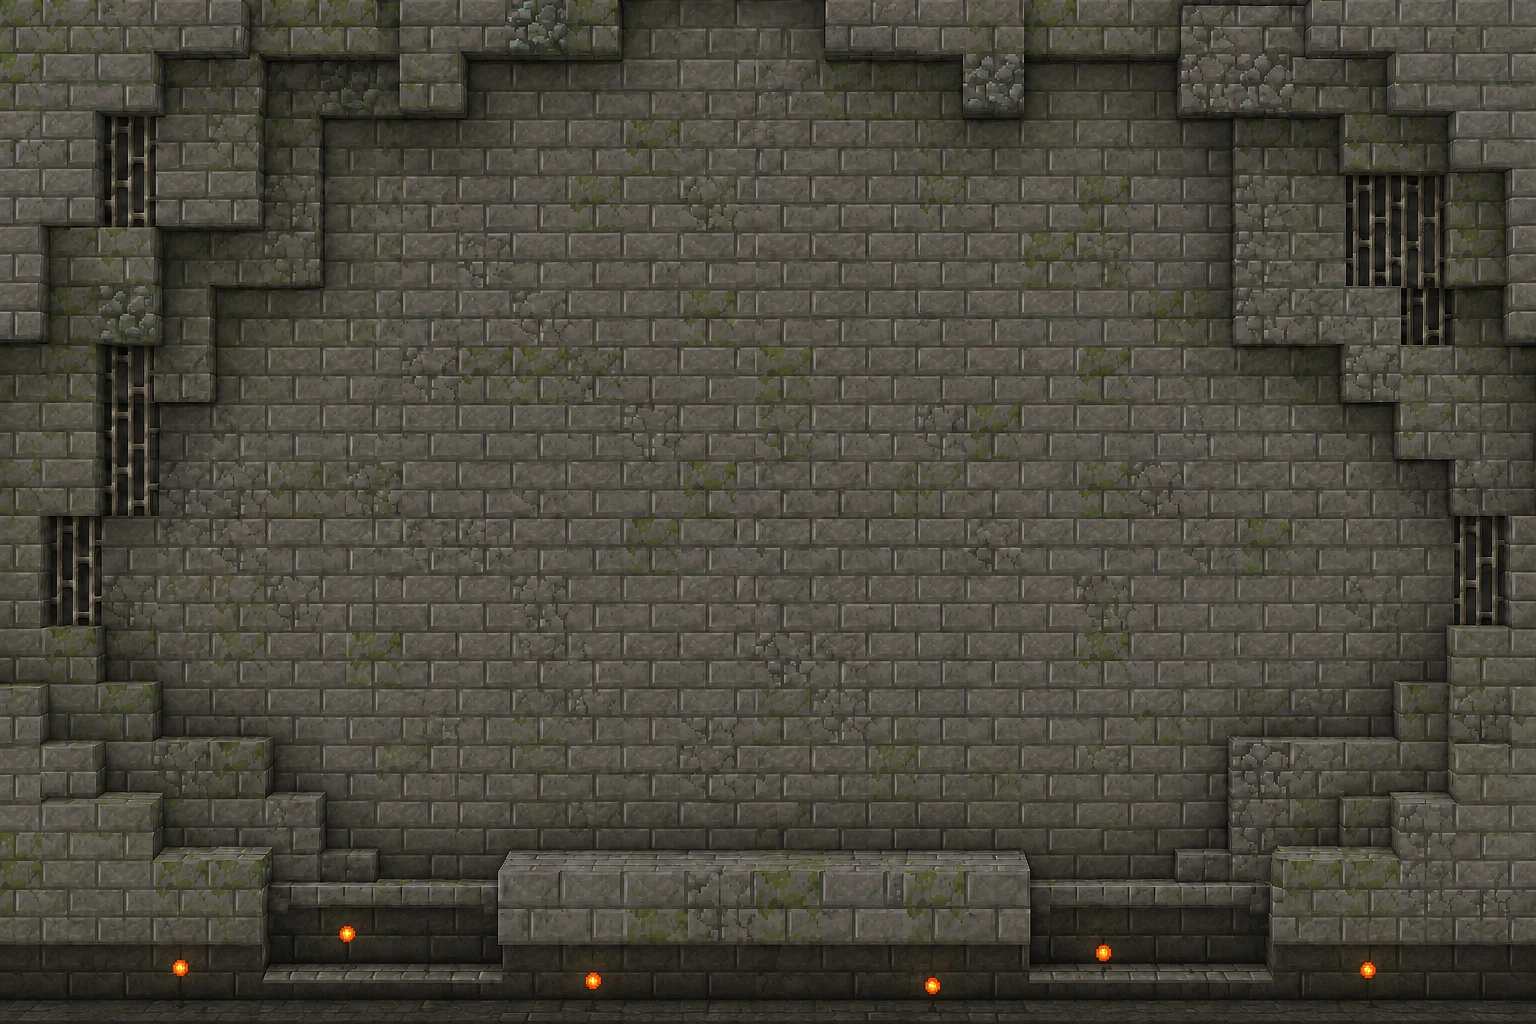
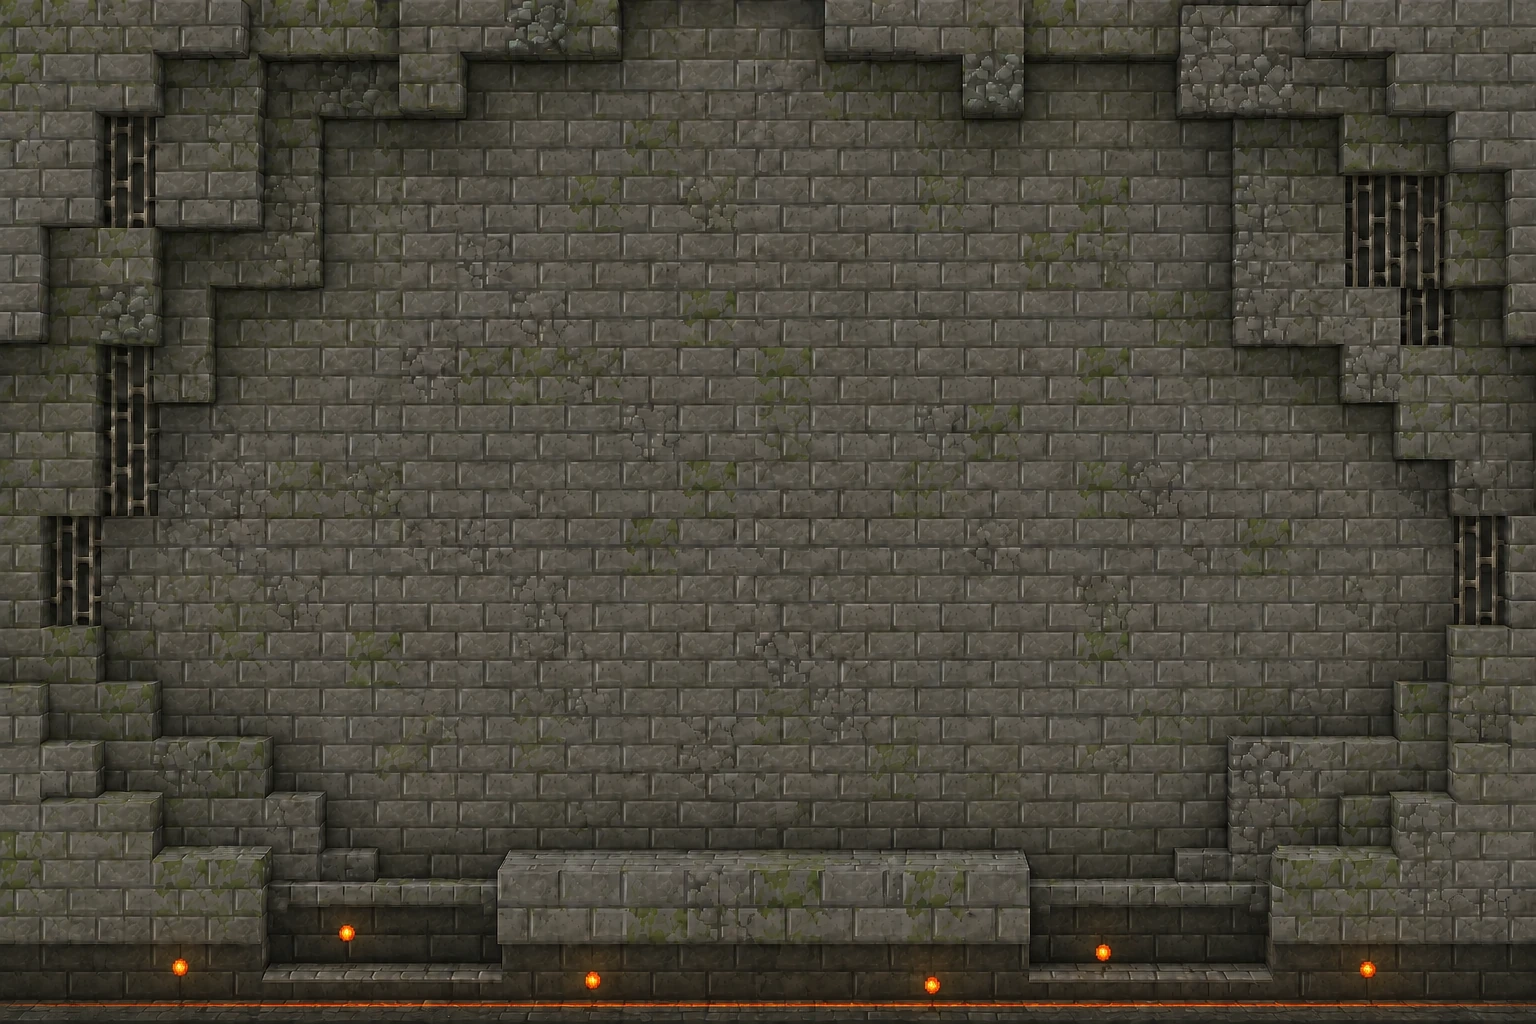
Add a shallow lava sliver at the stronghold edge

Changed region(s): [[0.0312, 0.9375, 1.0, 1.0], [0.875, 0.1875, 0.9375, 0.3438]]

diff --git a/public/images/minecraft/relief/stronghold-prompts.md b/public/images/minecraft/relief/stronghold-prompts.md
@@ -1,5 +1,9 @@
 # Stronghold application artwork
 
+## Latest revision: shallow lava sliver
+
+Precise object edit of supplied stronghold background. Preserve architecture, textures, moss, cracks, iron bars, shallow depth, center space, and small floating orange bubbles. Make one tiny addition ONLY at bottom: a narrow lava channel whose TOP SURFACE is barely visible at a very low grazing angle, like the thin rail bed in a nearly-front-facing Minecraft side-scroller. At image height1024, lava's visible surface should be only8-14 pixels tall, a very long slim horizontal foreshortened orange pixel-textured ribbon close to bottom edge. A thin grey stone lip immediately in FRONT occludes ALL vertical/side lava faces; you can only glimpse the top of the liquid behind that lip. Subtle shallow angled short end caps on stone lip, not a front-on orange rectangle. Place this in the bottommost floor strip, under the stone platform; don't replace any wall or platform with lava. Leave bottommost8-12 pixels as stone foreground lip. Faint red-orange reflection restricted to adjacent lower stone edge. No broad orange band, no lava waterfall, no tall orange face, no large pool, no glowing wall. No other changes. Same1536x1024, no text, no portal baked in.
+
 Current asset: `07-stronghold.webp`. Built-in image generation, encoded as WebP without resizing. Displayed at brightness(1.16), per user request. The End portal remains a separate clickable component. Rejected lava-panel variants were not published.
 
 ## Base prompt
